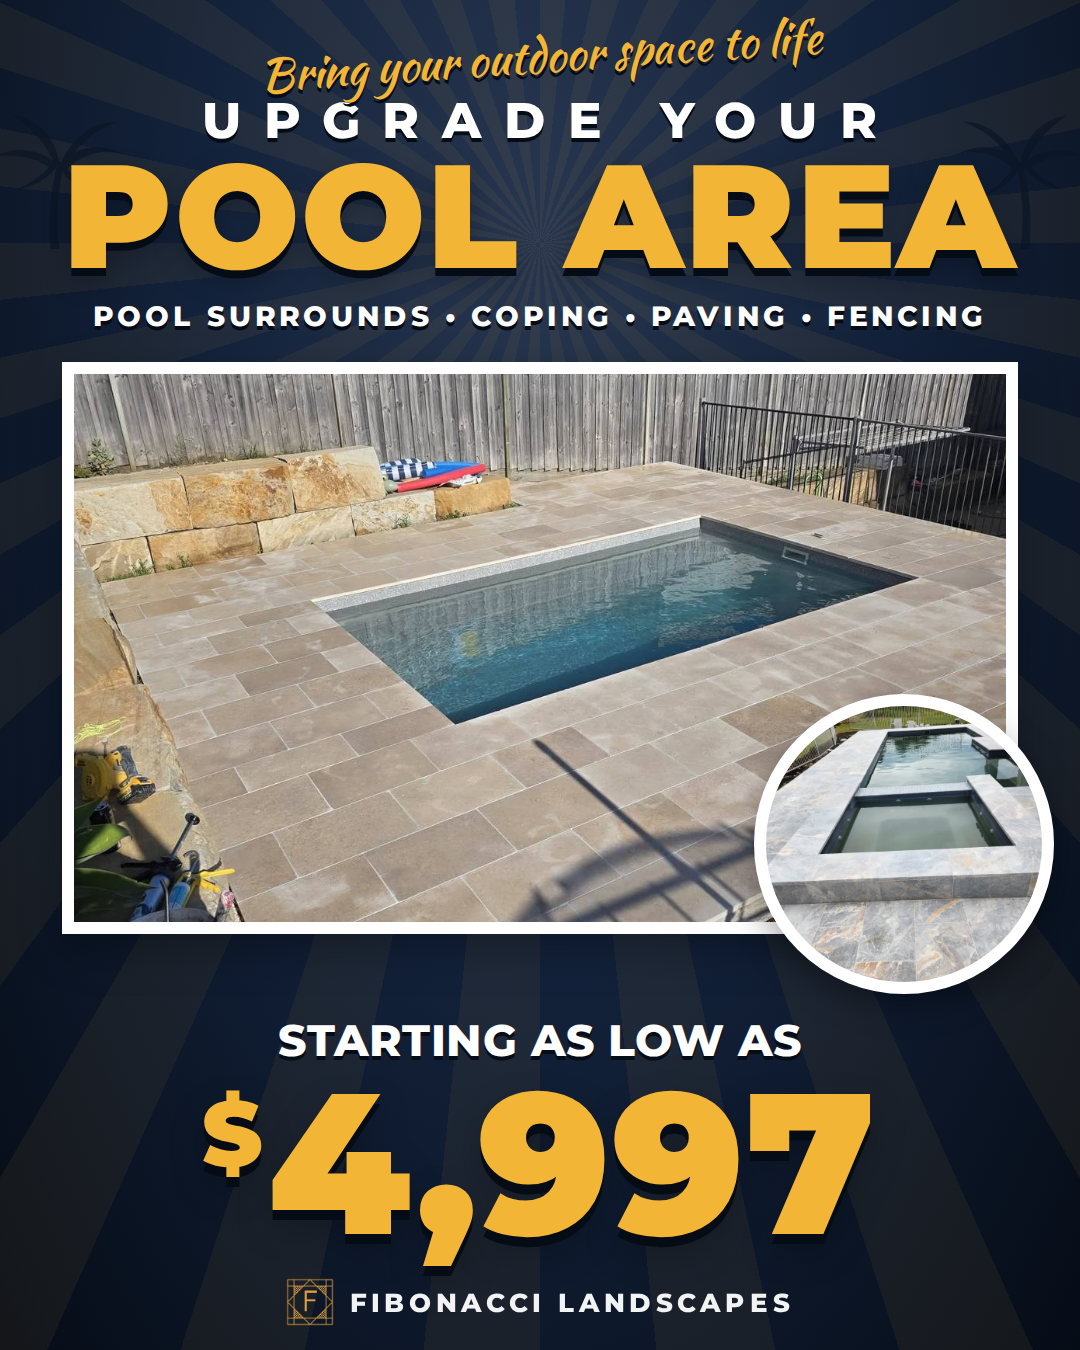
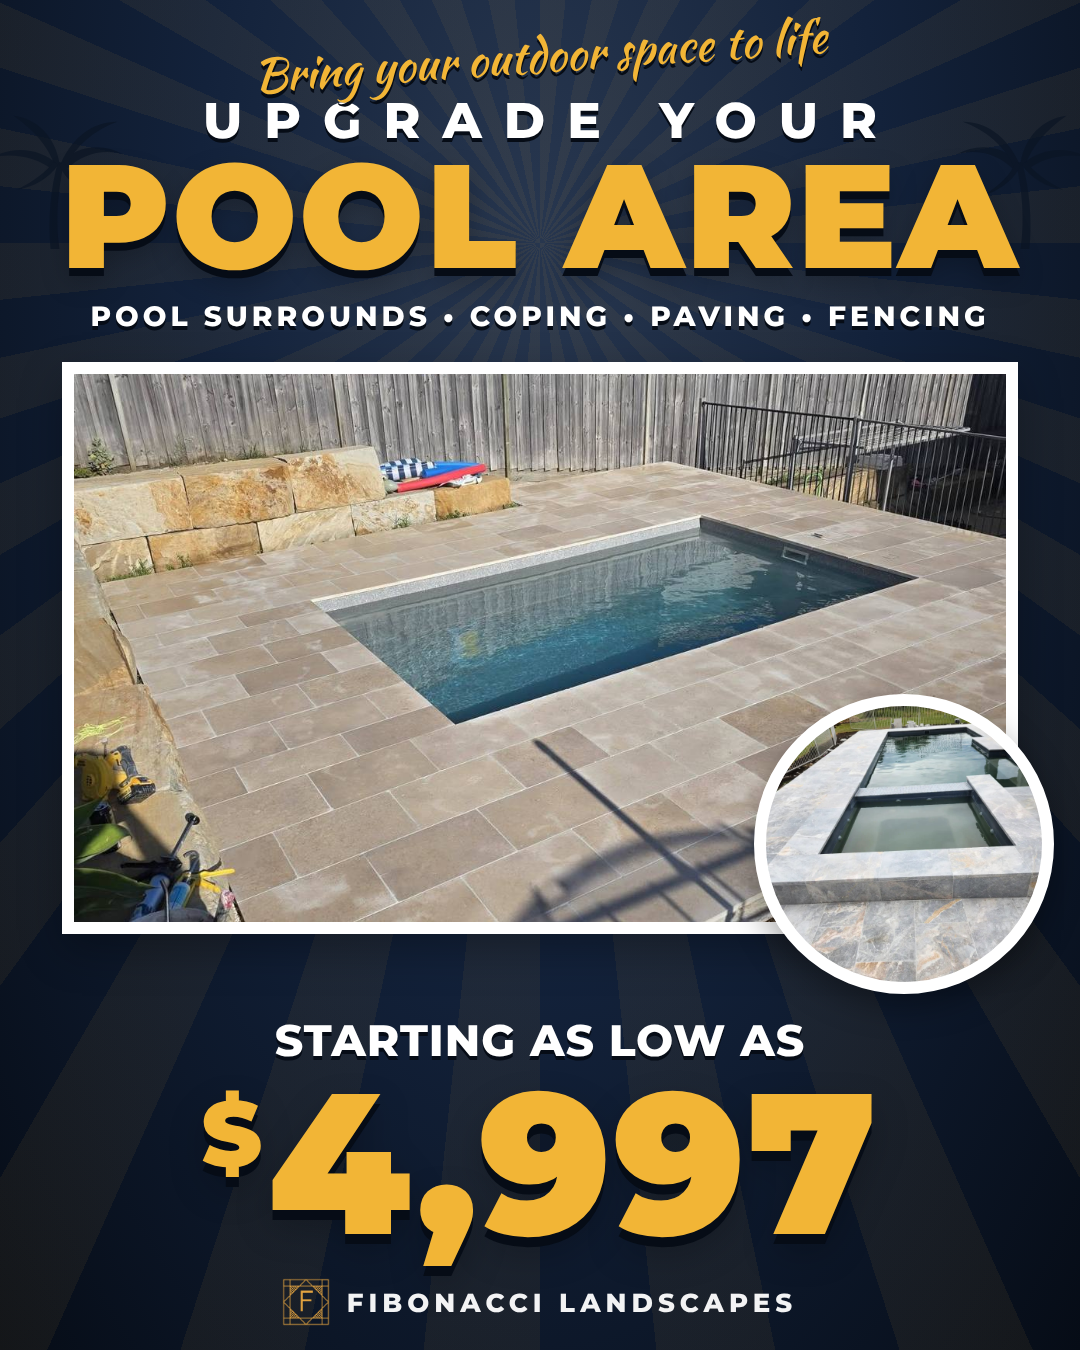
Add 1:1 and 9:16 versions of Jay's pool area ad for all placements
Claude-Session: https://claude.ai/code/session_01Kp3iAUfScQwAQYUi1SKLzt

diff --git a/jay-fibonacci/pool-area.html b/jay-fibonacci/pool-area.html
@@ -70,6 +70,20 @@
   .brand img { width: 24px; height: 24px; filter: brightness(1.15); }
   .script { font-size: 23px !important; margin-bottom: 6px; }
   .palm { fill: #0B1524 !important; opacity: .7 !important; }
+  /* Square 1:1 */
+  .ad.sq { height: 540px; }
+  .ad.sq .head { padding-top: 10px; }
+  .ad.sq .photo-wrap { height: 196px; width: 430px; margin-top: 10px; }
+  .ad.sq .inset { width: 120px; height: 120px; bottom: -24px; right: -20px; }
+  .ad.sq .from { margin-top: 30px !important; font-size: 19px; }
+  .ad.sq .price { font-size: 78px; }
+  .ad.sq .brand { bottom: 10px; }
+  /* Stories/Reels 9:16 - content kept clear of the top and bottom UI */
+  .ad.st { height: 960px; }
+  .ad.st .head { padding-top: 120px; }
+  .ad.st .photo-wrap { height: 330px; margin-top: 22px; }
+  .ad.st .from { margin-top: 52px !important; }
+  .ad.st .brand { bottom: 170px; } .ad.st .head { padding-top: 90px; } .ad.st .photo-wrap { height: 300px; }
 </style>
 </head>
 <body>
@@ -102,6 +116,7 @@
     <div class="brand"><img src="images/logo-mark.png" alt="">Fibonacci Landscapes</div>
   </div>
 <script>
+  if (q0 = new URLSearchParams(location.search).get('size')) document.getElementById('ad').classList.add(q0);
   // Photos come from the query string so one layout renders every version.
   const q = new URLSearchParams(location.search);
   const set = (id, img, pos) => {
